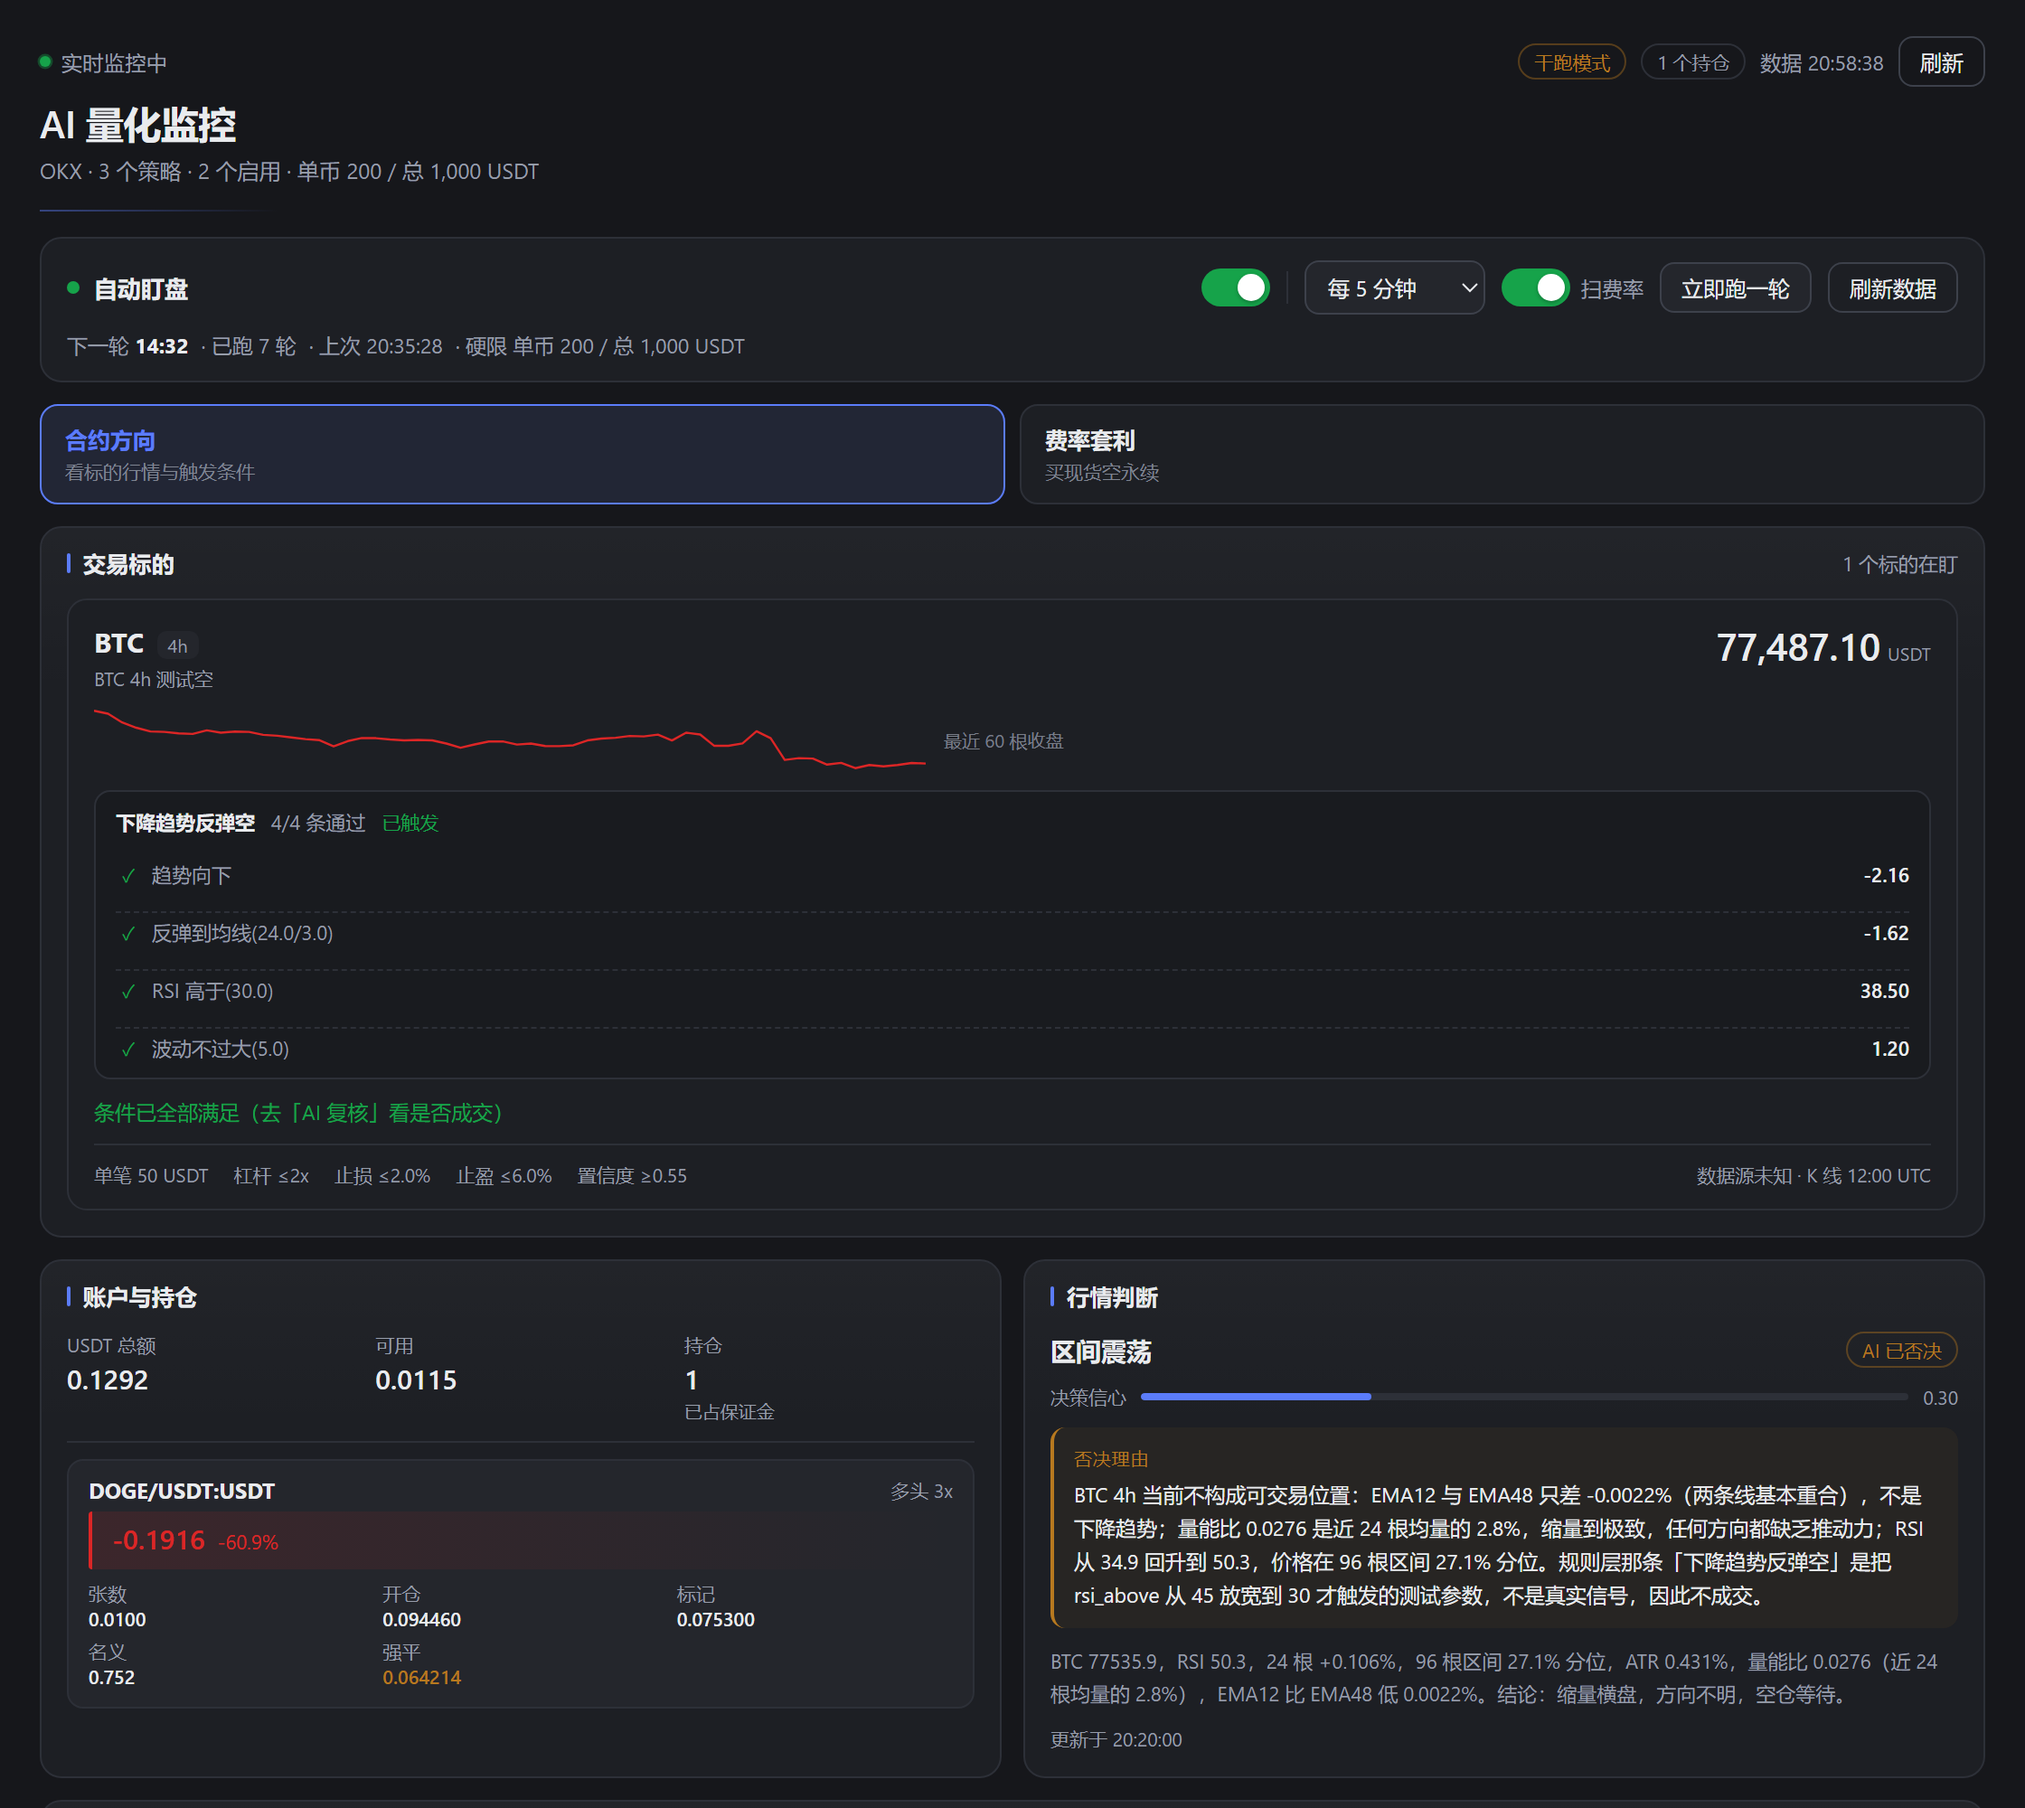
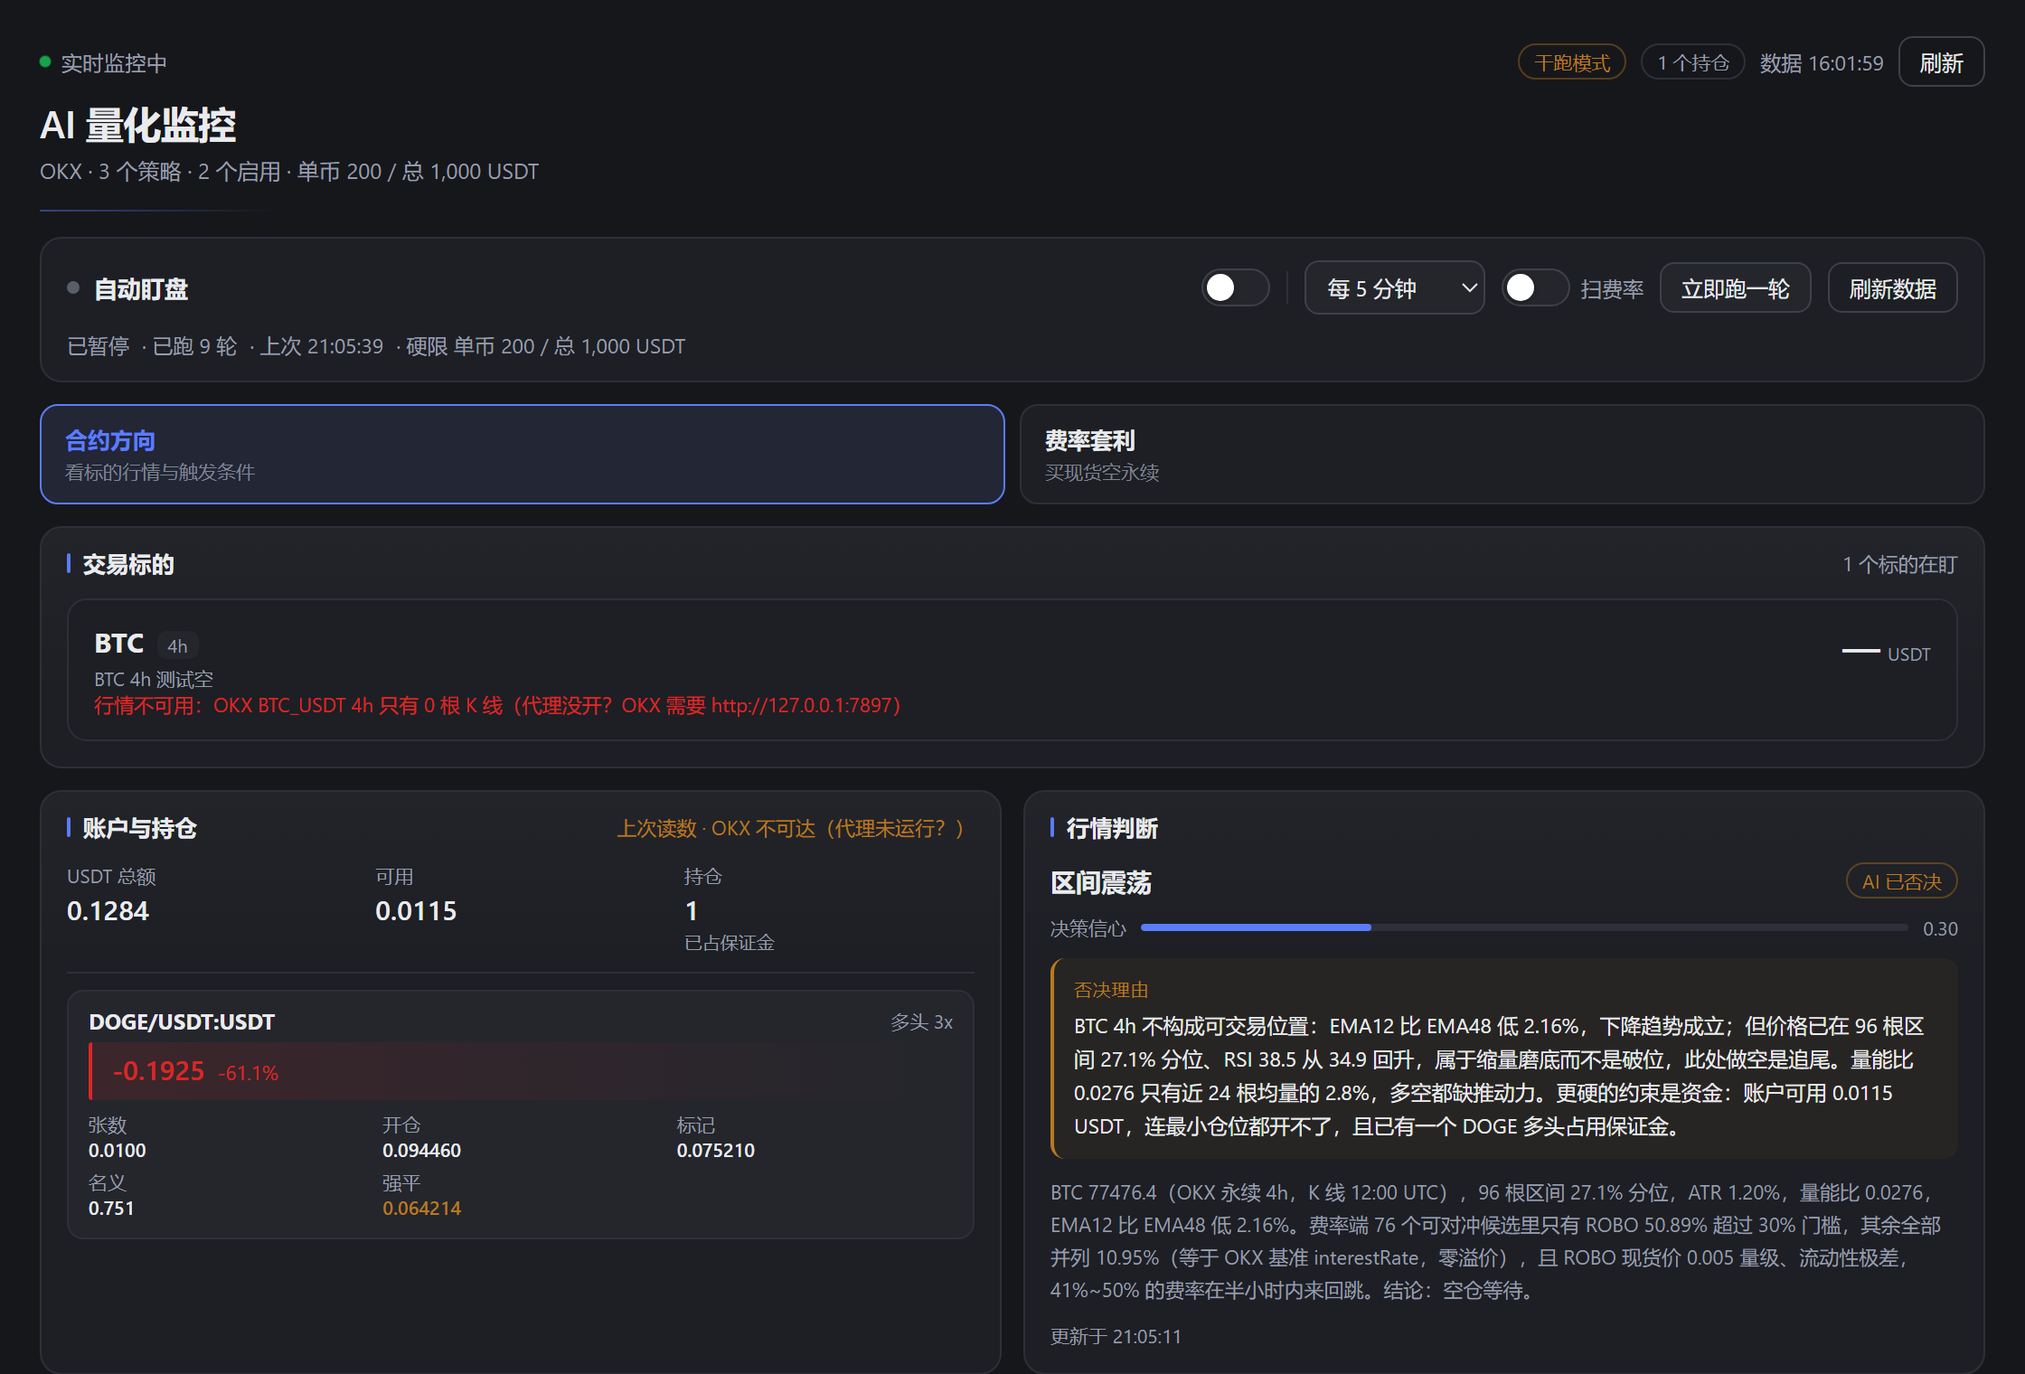
feat: OKX-only market data, no Gate fallback

diff --git a/quant-panel/client.js b/quant-panel/client.js
@@ -1428,7 +1428,14 @@ window.__ModuleLoader__.load({
           ),
 
         h('div', { className: 'qp-row2' },
-          h(Card, { title: '账户与持仓' }, h(AccountCard, { a: data.account })),
+          h(Card, {
+            title: '账户与持仓',
+            // 余额读不到时必须写在卡头上，否则一堆旧数字看着像实时值
+            extra: (data.account && data.account.balance_error)
+              ? h('span', { className: 'qp-warn-text' },
+                (data.account.stale ? '上次读数 · ' : '') + data.account.balance_error)
+              : null,
+          }, h(AccountCard, { a: data.account })),
           h(Card, {
             title: '行情判断',
             extra: (() => {

diff --git a/okx_quant/strategy.py b/okx_quant/strategy.py
@@ -238,9 +238,10 @@ def _market_snapshot(coin, timeframe, with_spark=False):
 
     返回的字典既给规则用（rsi/pos/vol_ratio/atr_pct），也原样塞进候选动作给 LLM 看。
 
-    数据源优先 **OKX 永续**：面板和规则看到的必须是真正下单的那个市场。
-    以前用 Gate 现货 K 线，主流币差 0.1% 无所谓，小币能差 1~2%，止损价会算歪。
-    OKX 拉不到时回退 Gate（至少不会整块空掉）。
+    数据源**只有 OKX 永续**：面板和规则看到的必须是真正下单的那个市场。
+    以前用 Gate 现货 K 线，主流币差 0.1% 无所谓，小币能差 1~2%，止损价会算歪；
+    后来改成「OKX 失败回退 Gate」，更糟 —— 拿 Gate 的价去算 OKX 的止损位，
+    表面有信号其实位置是错的。现在取不到就返回 error，宁可不给信号。
     """
     try:
         import datafeed as DF
@@ -249,20 +250,18 @@ def _market_snapshot(coin, timeframe, with_spark=False):
         return {"error": f"数据模块导入失败：{type(e).__name__}: {e}"}
 
     pair = f"{str(coin).upper()}_USDT"
-    df = None
+    # 只认 OKX。这里以前会在 OKX 失败时悄悄回退 Gate 现货，
+    # 结果是「用 Gate 的价格算止损、去 OKX 下单」——两个交易所永续差了
+    # 0.1%~0.5%，止损位就是错的。宁可不给信号，也不给错的价格。
     source = "okx"
     try:
         df = DF.load_okx_bars(str(coin).upper(), timeframe, bars=300, ttl=300, verbose=False)
-    except Exception:
-        df = None
+    except Exception as e:
+        return {"error": f"OKX K 线不可用：{type(e).__name__}: {str(e)[:80]}"}
     if df is None or len(df) < 60:
-        source = "gate"
-        try:
-            df = DF.load_bars(pair=pair, interval=timeframe, bars=300, verbose=False)
-        except Exception as e:
-            return {"error": f"取 K 线失败：{type(e).__name__}: {str(e)[:80]}"}
-    if df is None or len(df) < 60:
-        return {"error": f"{pair} {timeframe} 数据不足（{0 if df is None else len(df)} 根）"}
+        n = 0 if df is None else len(df)
+        return {"error": f"OKX {pair} {timeframe} 只有 {n} 根 K 线"
+                        f"（代理没开？OKX 需要 http://127.0.0.1:7897）"}
 
     close = float(df["close"].iloc[-1])
     try:
@@ -322,22 +321,19 @@ def pd_isna(v):
 def _load_df(coin, timeframe):
     """按 (币, 周期) 缓存 K 线。同一轮评估里多套策略用同一份数据时不重复拉。
 
-    优先 OKX 永续（与下单市场一致），失败回退 Gate 现货。
+    只用 OKX 永续（与下单市场一致），取不到返回 None，不回退 Gate。
     模板最多回看 96 根，300 根足够，不必拉 1200 —— 多拉是纯浪费。
     """
     key = "%s|%s" % (coin, timeframe)
     if key in _DF_CACHE:
         return _DF_CACHE[key]
-    df = None
+    # 同 _market_snapshot：只认 OKX，不回退 Gate
     try:
         df = DF.load_okx_bars(str(coin).upper(), timeframe, bars=300, ttl=300, verbose=False)
     except Exception:
         df = None
     if df is None or len(df) < 60:
-        try:
-            df = DF.load_bars(pair=coin + "_USDT", interval=timeframe, bars=300, verbose=False)
-        except Exception:
-            df = None
+        df = None
     _DF_CACHE[key] = df
     return df
 
@@ -623,6 +619,13 @@ def _account_positions(force=False):
             _ACCT_CACHE.update({"at": at, "data": cached})
     if not force and cached is not None and now - at < ACCT_TTL:
         return dict(cached)
+    if not DF.okx_alive():
+        # 代理没开时 build_client 会走 load_markets（几千个市场），
+        # 一轮盯盘能因此多花几十秒。先探测，不通就直接降级。
+        out = dict(cached) if cached is not None else {"positions": []}
+        out.update({"positions": out.get("positions") or [],
+                    "error": "OKX 不可达（代理未运行？）", "stale": True})
+        return out
 
     try:
         ex = FL.build_client("swap")

diff --git a/okx_quant/datafeed.py b/okx_quant/datafeed.py
@@ -224,6 +224,29 @@ def _okx_get(path, params, retries=3, timeout=12):
     raise last
 
 
+_OKX_ALIVE = {"ts": 0.0, "ok": None}
+
+
+def okx_alive(force=False, ttl=60.0):
+    """OKX 现在到底通不通？带 60 秒缓存。
+
+    为什么要它：本机访问 OKX 必须走代理（www.okx.com 的 DNS 被污染成
+    169.254.0.2，真实 IP 的 443 也被阻断）。代理一停，每一次请求都要等
+    超时 + 重试，一轮 tick 从 5 秒变成 45 秒。先花 3 秒探一下，
+    不通就整轮改用 Gate —— Gate 可直连，永续价格与 OKX 差不到 0.1%。
+    """
+    now = time.time()
+    if not force and _OKX_ALIVE["ok"] is not None and now - _OKX_ALIVE["ts"] < ttl:
+        return _OKX_ALIVE["ok"]
+    try:
+        d = _okx_get("/api/v5/public/time", {}, retries=1, timeout=3)
+        ok = bool(d)
+    except Exception:
+        ok = False
+    _OKX_ALIVE.update(ts=now, ok=ok)
+    return ok
+
+
 def fetch_okx(coin, interval="4h", limit=300, verbose=False):
     """OKX 永续 K 线。返回与 fetch_gateio 同结构：index=UTC，列 open/high/low/close/volume。"""
     if interval not in OKX_BAR:
@@ -258,6 +281,10 @@ def load_okx_bars(coin, interval="4h", bars=300, ttl=300, force=False, verbose=F
     而面板 5 秒轮询一次 —— 不缓存等于每次轮询都打一次交易所接口。
     """
     path = okx_cache_path(coin, interval)
+    if not okx_alive():
+        # OKX 不通：直接返回空，让调用方走 Gate。
+        # 别在这里用过期缓存顶——那会让策略拿几十小时前的 K 线判断趋势。
+        return pd.DataFrame(columns=["open", "high", "low", "close", "volume"])
     if path.exists() and not force:
         try:
             if time.time() - path.stat().st_mtime <= ttl:
@@ -274,9 +301,18 @@ def load_okx_bars(coin, interval="4h", bars=300, ttl=300, force=False, verbose=F
     except Exception as e:
         if verbose:
             print(f"OKX K 线失败({e})，回退缓存")
+    # 回退缓存必须判新鲜度：代理断掉时缓存会一直返回旧数据，
+    # 而调用方（strategy._load_df）看到"有数据"就不会退到 Gate，
+    # 于是策略拿着几十小时前的 K 线判断趋势。宁可返回空，让上层换源。
     if path.exists():
         try:
-            return pd.read_parquet(path).tail(bars)
+            old = pd.read_parquet(path)
+            step = STEP.get(interval) or 14400
+            age = time.time() - float(old.index[-1].timestamp())
+            if age <= max(ttl * 2, step * 3):
+                return old.tail(bars)
+            if verbose:
+                print(f"OKX 缓存已过期 {age/3600:.1f} 小时，不再使用")
         except Exception:
             pass
     return pd.DataFrame(columns=["open", "high", "low", "close", "volume"])
@@ -288,6 +324,8 @@ def okx_ticker(coin, kind="SWAP"):
     timeout 压到 5 秒、只重试 2 次 —— 行情拿不到可以用 K 线收盘价顶住，
     不值得为它把整轮 tick 拖到 30 秒（代理有约 20% 的瞬时失败率）。
     """
+    if not okx_alive():
+        return None
     d = _okx_get("/api/v5/market/ticker", {"instId": okx_inst(coin, kind)},
                  retries=2, timeout=5)
     if not d:

diff --git a/okx_quant/dashboard.py b/okx_quant/dashboard.py
@@ -77,7 +77,7 @@ def safe(name, fallback=None):
 
 # ---------------------------------------------------------------- 行情
 def market_block(quote=False, coins=None):
-    """技术面：优先 OKX 永续 K 线（与下单市场一致），失败回退 Gate 现货缓存。
+    """技术面：只用 OKX 永续 K 线（与下单市场一致），取不到就报错，不回退。
 
     实时价不再走 ccxt —— ccxt 每次进程启动都要 load_markets（4600+ 市场，
     走代理约 18 秒），而 OKX REST ticker 只要 0.2 秒。
@@ -87,22 +87,17 @@ def market_block(quote=False, coins=None):
     for coin in watch:
         pair = f"{coin}_USDT"
         item = {"coin": coin}
-        df = None
+        # 只认 OKX。交易在 OKX 上，行情就必须是 OKX 的；
+        # 用 Gate 的价格去算 OKX 的止损位，等于拿错尺子量。
         src = "okx"
         try:
             df = datafeed.load_okx_bars(coin, C.TIMEFRAME, bars=300, ttl=300, verbose=False)
-        except Exception:
-            df = None
+        except Exception as e:
+            item["error"] = f"OKX K 线不可用：{type(e).__name__}: {str(e)[:80]}"
+            rows.append(item)
+            continue
         if df is None or getattr(df, "empty", True):
-            src = "gate"
-            try:
-                df = datafeed.load_bars(pair=pair, interval=C.TIMEFRAME, verbose=False)
-            except Exception as e:
-                item["error"] = f"{type(e).__name__}: {e}"
-                rows.append(item)
-                continue
-        if df is None or getattr(df, "empty", True):
-            item["error"] = "无数据"
+            item["error"] = "OKX 无数据（代理没开？需要 http://127.0.0.1:7897）"
             rows.append(item)
             continue
         try:
@@ -240,6 +235,16 @@ def _balance(force=False):
             _BAL_CACHE.update({"at": at, "data": cached})
     if not force and cached is not None and now - at < BAL_TTL:
         return dict(cached)
+    if not datafeed.okx_alive():
+        # OKX 不可达（代理没开）时不要硬等：一次 fetch_balance 在网络层
+        # 就要耗掉几秒到几十秒，而面板每 8 秒轮询一次，会连着排队。
+        msg = "OKX 不可达（代理未运行？）"
+        if cached is not None:
+            out = dict(cached)
+            out["balance_error"] = msg
+            out["stale"] = True
+            return out
+        return {"balance_error": msg}
     try:
         ex = FL.build_client("swap")
         old = getattr(ex, "timeout", None)

diff --git a/okx_quant/tick.py b/okx_quant/tick.py
@@ -61,14 +61,20 @@ def main(argv=None):
     _run(steps, "evaluate", lambda: ST.evaluate_all(
         use_cache=not a.scan, skip_funding=a.skip_funding))
 
-    # 2. 任务书：把命中的候选整理成「给 DSH agent 看的题目」
+    # 2. 入队：把命中的候选写成 prompt 文件并进 pending 队列。
+    #    这一步不能省 —— build_task() 只读 pending.json，而 pending.json 是
+    #    prepare() 写的。少了它，任务书永远是「待定价 0 条」，
+    #    后面的定价也就永远没活干。
+    _run(steps, "enqueue", lambda: LT.prepare())
+
+    # 3. 任务书：把命中的候选整理成「给 DSH agent 看的题目」
     _run(steps, "task", lambda: LT.build_task())
 
-    # 3. 规则定价：先用 ATR/区间位置机械地算一版，标成待复核
+    # 4. 规则定价：先用 ATR/区间位置机械地算一版，标成待复核
     if not a.no_pricing:
         _run(steps, "auto", lambda: LT.run_auto())
 
-    # 4. 回写面板数据（dashboard.py 里所有块都在这把算完）
+    # 5. 回写面板数据（dashboard.py 里所有块都在这把算完）
     _run(steps, "dashboard", lambda: D.write(D.build(quote=a.quote, rescan=a.scan)))
 
     out = {

diff --git a/okx_quant/llm_trade.py b/okx_quant/llm_trade.py
@@ -539,7 +539,10 @@ def auto_price(action):
         tp = round(price * (1 - tp_pct / 100.0), 1)
 
     # 区间位置越极端，说明这笔越像"追尾"，仓位越小
-    pos = float(snap.get("range_position_96_pct") or 50.0)
+    # 注意字段名：这里是 strategy.py 给的 action["snapshot"]（pos_long/pos），
+    # 不是 build_messages 里那套 prompt 字段（range_position_96_pct）。
+    # 用错名字不会报错，只会静默 fallback 到 50.0，仓位系数就变成拍脑袋。
+    pos = float(snap.get("pos_long") or snap.get("pos") or 50.0)
     if side == "long":
         edge = pos / 100.0           # 越接近顶部越危险
     else:
@@ -547,8 +550,8 @@ def auto_price(action):
     size_mult = round(min(1.0, max(0.3, 1.0 - edge * 0.7)), 2)
 
     # 置信度：RSI 与方向配合、量能是否放大
-    rsi = float(snap.get("rsi14") or 50.0)
-    vol = float(snap.get("vol_ratio_24") or 1.0)
+    rsi = float(snap.get("rsi") or 50.0)
+    vol = float(snap.get("vol_ratio") or 1.0)
     conf = conf_min + 0.02
     if side == "short" and rsi > 55:
         conf += 0.03
